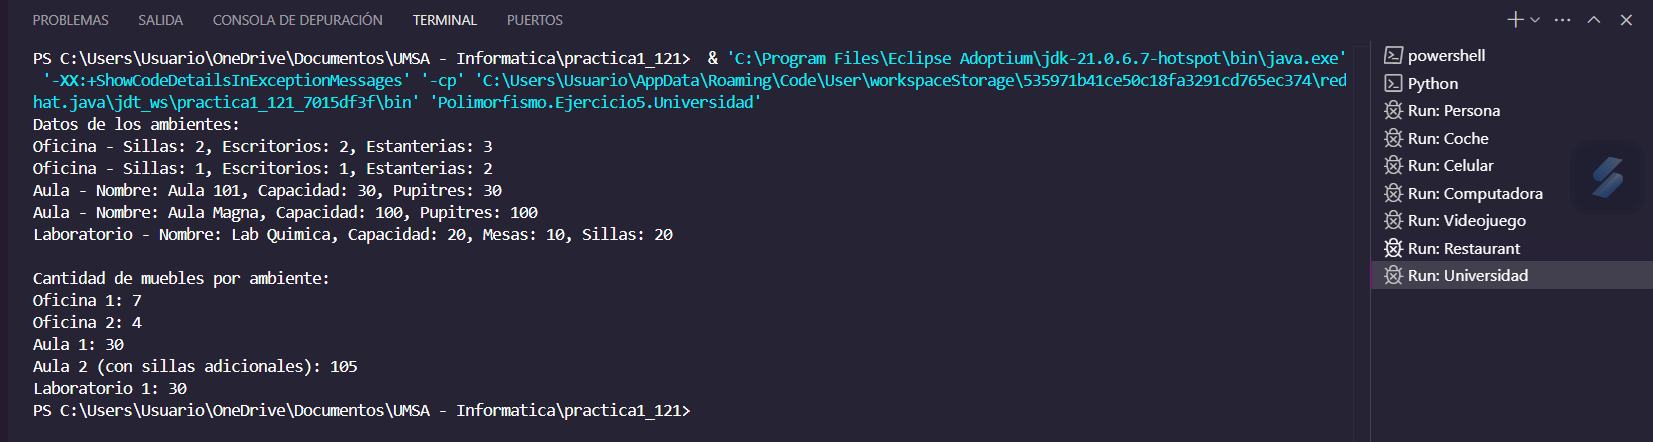
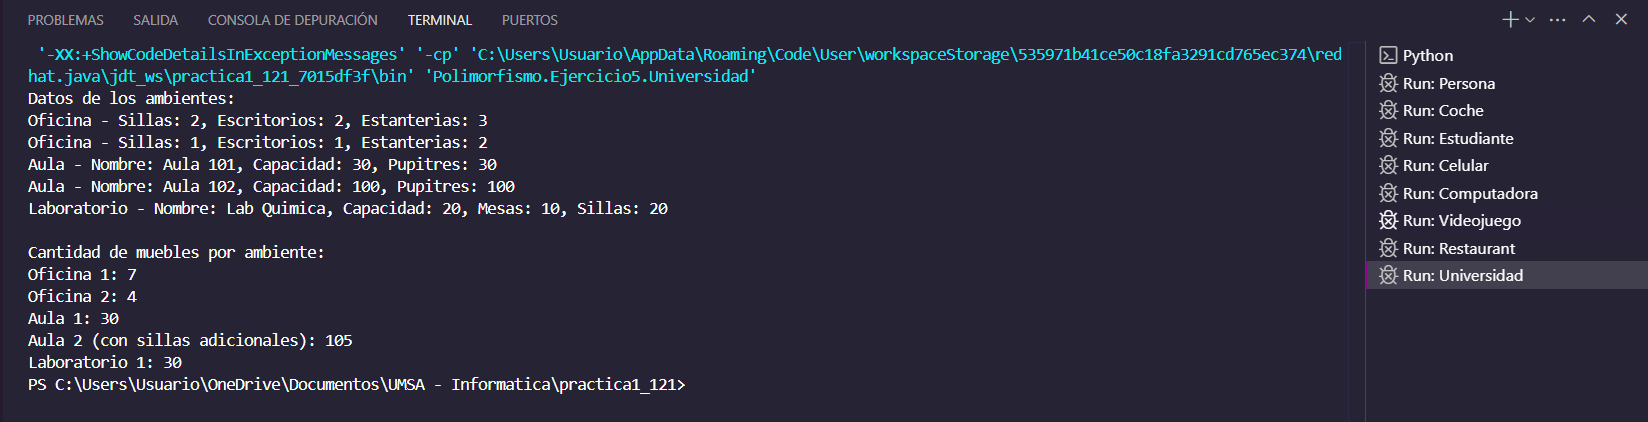
cambios

diff --git a/Polimorfismo/Ejercicio7/Animal_main.java b/Polimorfismo/Ejercicio7/Animal_main.java
@@ -8,11 +8,11 @@ class Animal {
     }
 
     public void hacerSonido() {
-        System.out.println("Sonido genérico de animal");
+        System.out.println("Sonido del animal");
     }
 
     public void moverse() {
-        System.out.println("Movimiento genérico de animal");
+        System.out.println("Movimiento del animal");
     }
 }
 
@@ -23,7 +23,7 @@ class Perro extends Animal {
 
     @Override
     public void hacerSonido() {
-        System.out.println("¡Guau!");
+        System.out.println("Perro: ¡Guau!");
     }
 
     @Override
@@ -39,7 +39,7 @@ class Gato extends Animal {
 
     @Override
     public void hacerSonido() {
-        System.out.println("¡Miau!");
+        System.out.println("Gato: ¡Miau!");
     }
 
     @Override
@@ -55,7 +55,7 @@ class Pajaro extends Animal {
 
     @Override
     public void hacerSonido() {
-        System.out.println("¡Pío pío!");
+        System.out.println("Pajaro: ¡Pio pio!");
     }
 
     @Override
@@ -64,18 +64,19 @@ class Pajaro extends Animal {
     }
 }
 
-public class Main {
+public class Animal_main {
     public static void main(String[] args) {
-    
-        Perro miPerro = new Perro("Buddy");
-        Gato miGato = new Gato("Whiskers");
-        Pajaro miPajaro = new Pajaro("Tweety");
+        
+        Perro miPerro = new Perro("Perla");
+        Gato miGato = new Gato("Whisky");
+        Pajaro miPajaro = new Pajaro("Roon");
 
         System.out.println("Sonidos de los animales:");
         miPerro.hacerSonido();
         miGato.hacerSonido();
         miPajaro.hacerSonido();
 
+        
         System.out.println("\nMovimientos de los animales:");
         miPerro.moverse();
         miGato.moverse();

diff --git a/Polimorfismo/Ejercicio9/Minecraft.java b/Polimorfismo/Ejercicio9/Minecraft.java
@@ -1,41 +1,26 @@
 package Polimorfismo.Ejercicio9;
 
-
 public class Minecraft {
     public static void main(String[] args) {
-       
-        BloqueCofre cofre1 = new BloqueCofre(27, 5);
-        BloqueCofre cofre2 = new BloqueCofre(9, 3);
+        BloqueCofre cofre1 = new BloqueCofre("Cofre", 30, 100);
+        BloqueCofre cofre2 = new BloqueCofre("Cofre", 50, 200);
 
-        BloqueTnt tnt1 = new BloqueTnt("Normal", 80);
-        BloqueTnt tnt2 = new BloqueTnt("Mega", 150);
+        BloqueTnt tnt1 = new BloqueTnt("TNT", 100);
+        BloqueTnt tnt2 = new BloqueTnt("TNT", 150);
 
-        BloqueHorno horno1 = new BloqueHorno("Gris", 3);
-        BloqueHorno horno2 = new BloqueHorno("Blanco", 5);
+        BloqueHorno horno1 = new BloqueHorno("Horno", "Gris", 3);
+        BloqueHorno horno2 = new BloqueHorno("Horno", "Negro", 5);
 
-        System.out.println("--- Acciones de los bloques ---");
-        
         cofre1.accion();
-        cofre2.accion();
         tnt1.accion();
-        tnt2.accion();
         horno1.accion();
-        horno2.accion();
 
-        System.out.println("\n--- Colocación de los bloques ---");
-        
         cofre1.colocar();
-        tnt1.colocar("Pared");
-        horno1.colocar("Suelo");
-        cofre2.colocar("Techo");
+        tnt1.colocar("pared");
+        horno1.colocar("suelo");
 
-        System.out.println("\n--- Rompiendo los bloques ---");
-        
-        cofre1.romper();
         cofre2.romper();
-        tnt1.romper();
         tnt2.romper();
-        horno1.romper();
         horno2.romper();
     }
 }

diff --git a/Polimorfismo/Ejercicio7/Animal.py b/Polimorfismo/Ejercicio7/Animal.py
@@ -3,17 +3,17 @@ class Animal:
         self.nombre = nombre
 
     def hacerSonido(self):
-        print("Sonido genérico de animal")
+        print("Sonido del animal")
 
     def moverse(self):
-        print("Movimiento genérico de animal")
+        print("Movimiento del animal")
 
 class Perro(Animal):
     def __init__(self, nombre):
         super().__init__(nombre)
 
     def hacerSonido(self):
-        print("¡Guau!")
+        print("Perro: ¡Guau!")
 
     def moverse(self):
         print("Corre")
@@ -23,7 +23,7 @@ class Gato(Animal):
         super().__init__(nombre)
 
     def hacerSonido(self):
-        print("¡Miau!")
+        print("Gato: ¡Miau!")
 
     def moverse(self):
         print("Camina y salta")
@@ -33,21 +33,22 @@ class Pajaro(Animal):
         super().__init__(nombre)
 
     def hacerSonido(self):
-        print("¡Pío pío!")
+        print("Pajaro: ¡Pio pio!")
 
     def moverse(self):
         print("Vuela")
 
 
-mi_perro = Perro("Buddy")
-mi_gato = Gato("Whiskers")
-mi_pajaro = Pajaro("Tweety")
+mi_perro = Perro("Perla")
+mi_gato = Gato("Whisky")
+mi_pajaro = Pajaro("Roon")
 
 
 print("Sonidos de los animales:")
 mi_perro.hacerSonido()
 mi_gato.hacerSonido()
 mi_pajaro.hacerSonido()
+
 
 print("\nMovimientos de los animales:")
 mi_perro.moverse()

diff --git a/Polimorfismo/Ejercicio9/BloqueTnt.java b/Polimorfismo/Ejercicio9/BloqueTnt.java
@@ -1,30 +1,20 @@
 package Polimorfismo.Ejercicio9;
-import java.util.Random;
 
 public class BloqueTnt extends Bloque {
-    String tipoTnt;
-    int daño;
+    int danio;
 
-    public BloqueTnt(String tipoTnt, int daño) {
-        super("TNT");
-        this.tipoTnt = tipoTnt;
-        this.daño = daño;
+    public BloqueTnt(String tipo, int danio) {
+        super(tipo);
+        this.danio = danio;
     }
 
     @Override
     public void accion() {
-        System.out.println("¡BOOM! La TNT de tipo " + tipoTnt + " explotó, causando " + daño + " de daño.");
+        System.out.println("La TNT esta activada. Daño: " + danio);
     }
 
     @Override
     public void romper() {
-        System.out.println("Se intentó romper la TNT. ¡Cuidado, podría explotar!");
-        Random random = new Random();
-        if (random.nextBoolean()) {
-            System.out.println("¡La TNT explotó al romperse!");
-            accion();
-        } else {
-            System.out.println("La TNT se rompió sin explotar.");
-        }
+        System.out.println("Boom! Se Rompio la TNT y exploto");
     }
 }

diff --git a/Polimorfismo/Ejercicio9/BloqueHorno.java b/Polimorfismo/Ejercicio9/BloqueHorno.java
@@ -4,19 +4,19 @@ public class BloqueHorno extends Bloque {
     String color;
     int capacidadComida;
 
-    public BloqueHorno(String color, int capacidadComida) {
-        super("Horno");
+    public BloqueHorno(String tipo, String color, int capacidadComida) {
+        super(tipo);
         this.color = color;
         this.capacidadComida = capacidadComida;
     }
 
     @Override
     public void accion() {
-        System.out.println("Se interactuó con el horno de color " + color + ". Capacidad de comida: " + capacidadComida + ".");
+        System.out.println("Usando el horno para cocinar. Capacidad de comida: " + capacidadComida);
     }
 
     @Override
     public void romper() {
-        System.out.println("El horno se rompió y dejó caer algunos ladrillos.");
+        System.out.println("Se rompio el horno. Ya no podras cocinar aqui");
     }
 }

diff --git a/Polimorfismo/Ejercicio9/Bloque.java b/Polimorfismo/Ejercicio9/Bloque.java
@@ -1,25 +1,22 @@
 package Polimorfismo.Ejercicio9;
 
-public class Bloque {
+public abstract class Bloque {
     String tipo;
 
     public Bloque(String tipo) {
         this.tipo = tipo;
     }
 
-    public void accion() {
-        System.out.println("Acción genérica del bloque.");
-    }
+    public abstract void accion();
 
     public void colocar() {
-        System.out.println("Bloque colocado en el suelo.");
+        System.out.println("Colocando " + tipo + " en el suelo");
     }
 
     public void colocar(String orientacion) {
-        System.out.println("Bloque colocado en orientación: " + orientacion);
+        System.out.println("Colocando " + tipo + " en la " + orientacion);
     }
 
-    public void romper() {
-        System.out.println("Bloque roto.");
-    }
+    public abstract void romper();
 }
+

diff --git a/Polimorfismo/Ejercicio9/BloqueCofre.java b/Polimorfismo/Ejercicio9/BloqueCofre.java
@@ -1,23 +1,22 @@
 package Polimorfismo.Ejercicio9;
 
-
 public class BloqueCofre extends Bloque {
     int capacidad;
     int resistencia;
 
-    public BloqueCofre(int capacidad, int resistencia) {
-        super("Cofre");
+    public BloqueCofre(String tipo, int capacidad, int resistencia) {
+        super(tipo);
         this.capacidad = capacidad;
         this.resistencia = resistencia;
     }
 
     @Override
     public void accion() {
-        System.out.println("Se abrió el cofre. Capacidad: " + capacidad + ".");
+        System.out.println("Abriendo el cofre. Capacidad: " + capacidad);
     }
 
     @Override
     public void romper() {
-        System.out.println("El cofre se rompió y dejó caer algunos objetos.");
+        System.out.println("Rompiste un cofre, se cae todo su contenido");
     }
 }

diff --git a/Polimorfismo/Ejercicio3/Restaurant.java b/Polimorfismo/Ejercicio3/Restaurant.java
@@ -39,7 +39,7 @@ public class Restaurant {
 
         Cocinero cocinero1 = new Cocinero("Juan Perez", 2500, 10, 25.5f);
         Mesero mesero1 = new Mesero("Ana Gomez", 1800, 15, 18.0f, 350.0f);
-        Mesero mesero2 = new Mesero("Carlos López", 1900, 8, 19.5f, 280.0f);
+        Mesero mesero2 = new Mesero("Carlos Lopez", 1900, 8, 19.5f, 280.0f);
         Administrativo administrativo1 = new Administrativo("Laura Vargas", 3000, "Contador");
         Administrativo administrativo2 = new Administrativo("Pedro Diaz", 2800, "RRHH");
 

diff --git a/Polimorfismo/Ejercicio5/Universidad.java b/Polimorfismo/Ejercicio5/Universidad.java
@@ -7,7 +7,7 @@ public class Universidad {
         Oficina oficina2 = new Oficina(1, 1, 2);
 
         Aula aula1 = new Aula("Aula 101", 30, 30);
-        Aula aula2 = new Aula("Aula Magna", 100, 100);
+        Aula aula2 = new Aula("Aula 102", 100, 100);
 
         Laboratorio laboratorio1 = new Laboratorio("Lab Quimica", 20, 10, 20);
 
